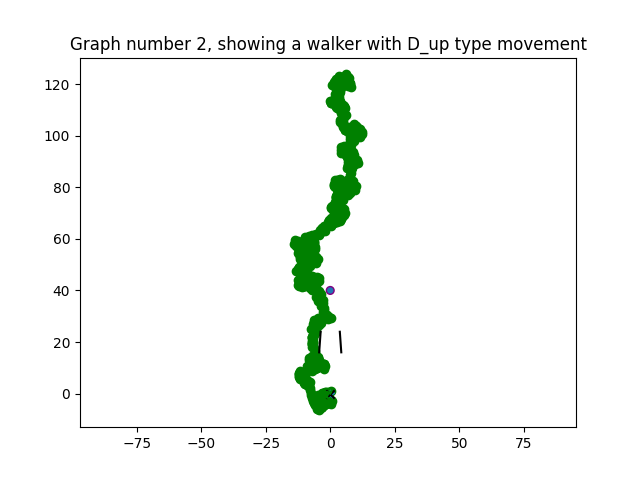
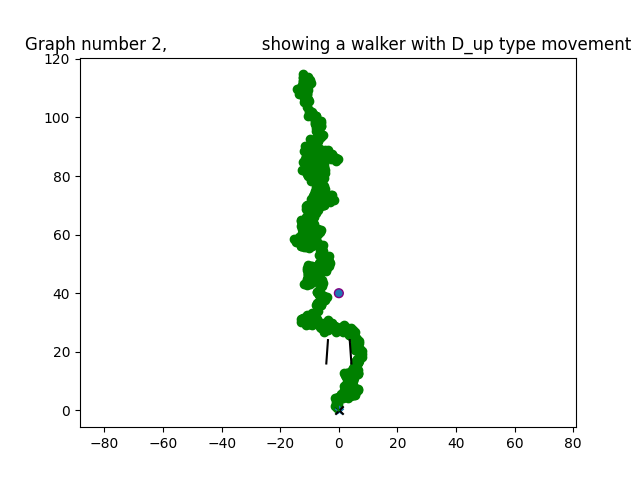
improoved gravity and input restrictions

diff --git a/Code/walker.py b/Code/walker.py
@@ -189,7 +189,7 @@ class Walker:
         """
         return MOVEMENTS
 
-def gravitate(walkers: list[Walker], degree: int = 1, gravity: int = 0) -> None:
+def gravitate(walkers: list[Walker], degree: int = 2, gravity: int = 0) -> None:
     """
     Additional feature for walkers that attract or push each other
     
@@ -202,30 +202,32 @@ def gravitate(walkers: list[Walker], degree: int = 1, gravity: int = 0) -> None:
     if len(walkers) <= 1 or gravity == 0:
         return
     nonrelative_locations = {}
+    ratio = float(degree * len(walkers) * (gravity))
     for walker in walkers:
+        bearing = (0, 0)
         # direction as in (x, y) relative to walker
-        current_direction = (0.0,0.0)
         for other in walkers:
             if other is walker:
                 continue
             x_difference = other.location[0] - walker.location[0]
             y_difference = other.location[1] - walker.location[1]
-            current_direction = (current_direction[0]+x_difference,
-                                 current_direction[1]+y_difference)
-        # Adapt the direction to the desired gravitational power and number of walkers
-        ratio = float(degree * len(walkers)**2 * (gravity))
-        distance_squared = current_direction[0]**2 + current_direction[1]**2
-        angle = walker.directional_angle(
-            (walker.location[0] + current_direction[0],walker.location[1] + current_direction[1]))
+            current_direction = (x_difference, y_difference)
+            distance_squared = current_direction[0]**2 + current_direction[1]**2
+            angle = walker.directional_angle(
+                (walker.location[0] + current_direction[0],
+                 walker.location[1] + current_direction[1]))
 
-        # To avoid too strong attraction (wormholes and such)
-        atrraction = min((ratio) / (distance_squared), 3)
+            # To avoid too strong attraction (wormholes and such)
+            atrraction = min((ratio) / (distance_squared), 3)
+
+            if angle:
+                bearing = (bearing[0] + math.cos(angle) * atrraction,
+                            bearing[1] + math.sin(angle) * atrraction)
 
         # Get location not relative to walker
-        if angle:
-            nonrelative_locations[walker] = (walker.location[0] + math.cos(angle) * atrraction,
-                             walker.location[1] + math.sin(angle) * atrraction)
-        else:
-            nonrelative_locations[walker] = walker.location
+        nonrelative_locations[walker] = (walker.location[0] + bearing[0],
+                                        bearing[1] + walker.location[1])
+
+
     for walker in walkers:
         walker.jump(nonrelative_locations[walker])

diff --git a/Code/walker_3d.py b/Code/walker_3d.py
@@ -1,0 +1,49 @@
+"""
+FILE : walker_3d.py
+WRITER : Dori_Peleg , dori.plg , 207685306
+EXERCISE : intro2cs final_project 2024
+DESCRIPTION: A class for the walker object
+STUDENTS I DISCUSSED THE EXERCISE WITH: None
+WEB PAGES I USED:
+NOTES: ...
+"""
+
+from typing import Tuple
+import math
+import random
+
+Triordinates = Tuple[float, float, float]
+
+PI = math.pi
+
+class Walker3D:
+    def __init__(self, position: Triordinates):
+        self.__position = position
+
+    @property
+    def position(self) -> Triordinates:
+        return self.__position
+
+    def jump(self):
+        x, y, z = self.position
+        dx, dy, dz = random_vector()
+        self.__position = (x + dx, y + dy, z + dz)
+
+    def get_distance(self, location: Triordinates) -> float:
+        x1, y1, z1 = self.position
+        x2, y2, z2 = location
+        distance = math.sqrt((x2 - x1) ** 2 + (y2 - y1) ** 2 + (z2 - z1) ** 2)
+        return distance
+
+    def __str__(self):
+        return f"Walker3D at position {self.__position}"
+    
+def random_vector() -> Triordinates:
+    """
+    A function that returns a random vector in 3D space, with a length of 1 unit
+    """
+    x = random.uniform(-1, 1)
+    y = random.uniform(-1, 1)
+    z = random.uniform(-1, 1)
+    length = math.sqrt(x ** 2 + y ** 2 + z ** 2)
+    return x / length, y / length, z / length

diff --git a/tests/test_walker_3d.py b/tests/test_walker_3d.py
@@ -1,0 +1,31 @@
+import unittest
+import math
+from Code.walker_3d import Walker3D
+
+class TestWalker3D(unittest.TestCase):
+    def test_position(self):
+        # Test the position property of Walker3D
+        position = (1.0, 2.0, 3.0)
+        walker = Walker3D(position)
+        self.assertEqual(walker.position, position)
+
+    def test_jump(self):
+        # Test the jump method of Walker3D
+        position = (0.0, 0.0, 0.0)
+        walker = Walker3D(position)
+        walker.jump()
+        new_position = walker.position
+        self.assertNotEqual(new_position, position)
+
+    def test_get_distance(self):
+        # Test the get_distance method of Walker3D
+        position = (0.0, 0.0, 0.0)
+        walker = Walker3D(position)
+        location = (1.0, 2.0, 3.0)
+        distance = walker.get_distance(location)
+        expected_distance = math.sqrt(14)
+        self.assertAlmostEqual(distance, expected_distance)
+
+if __name__ == '__main__':
+    unittest.main()
+

diff --git a/Code/simulation.py b/Code/simulation.py
@@ -361,9 +361,10 @@ def run_from_json(filename: str|None = None) -> Tuple[dict, str]:
     """
     if not filename:
         filename = helper.get_filepath_to_json()
-    filename = filename.removesuffix("_simulation.json")
-    data = helper.load_simulation(filename + "_simulation.json")
-    data["Simulation"]["filename"] = filename
+    if not filename.endswith('_simulation.json'):
+        raise ValueError("Simulation filename must end with '_simulation.json'")
+    data = helper.load_simulation(filename)
+    data["Simulation"]["filename"] = filename.removesuffix("_simulation.json")
     if not check_data(data):
         print("The data in the file is not valid for a simulation")
         raise ValueError("The data in the file is not valid for a simulation")

diff --git a/main.py b/main.py
@@ -35,6 +35,6 @@ if __name__ == "__main__":
             print("Simulation completed successfully. \
 You may view the results in the same directory as the JSON file.")
         except Exception as e:
-            print(f"An error occurred while running the simulation: {e}")
+            print(f"An error occurred while running the simulation:\n{e}")
     else:
         print("Invalid number of arguments. Please provide either no arguments or a single JSON path.")

diff --git a/tests/test_simulation.py b/tests/test_simulation.py
@@ -320,7 +320,7 @@ class TestSimulation(unittest.TestCase):
                 "Simulation": {"type": "plot", "n": 1000, "filename": "temp_test"}
                 }
         save_to_json(data, "temp_test_simulation.json")
-        results = run_from_json("temp_test")
+        results = run_from_json("temp_test_simulation.json")
         self.assertIsInstance(results[0], dict)
         os.remove("temp_test_simulation.json")
 

diff --git a/Code/walker_gui.py b/Code/walker_gui.py
@@ -684,7 +684,8 @@ data for different number of iterations)")
 
         if path == "/":
             path = os.path.realpath(__file__).removesuffix("walker_gui.py")+"null_name"
-        save_to_json(simulation_data,f"{path}_simulation.json")
+        path += "_simulation.json"
+        save_to_json(simulation_data,path)
         try:
             self.run_simulation(path)
         except ValueError:

diff --git a/Code/graph.py b/Code/graph.py
@@ -11,8 +11,6 @@ NOTES: ...
 from typing import Tuple
 import matplotlib.pyplot as plt
 import matplotlib.patches as patches
-import matplotlib.image as mpimg
-import os
 
 Coordinates = Tuple[float,float]
 
